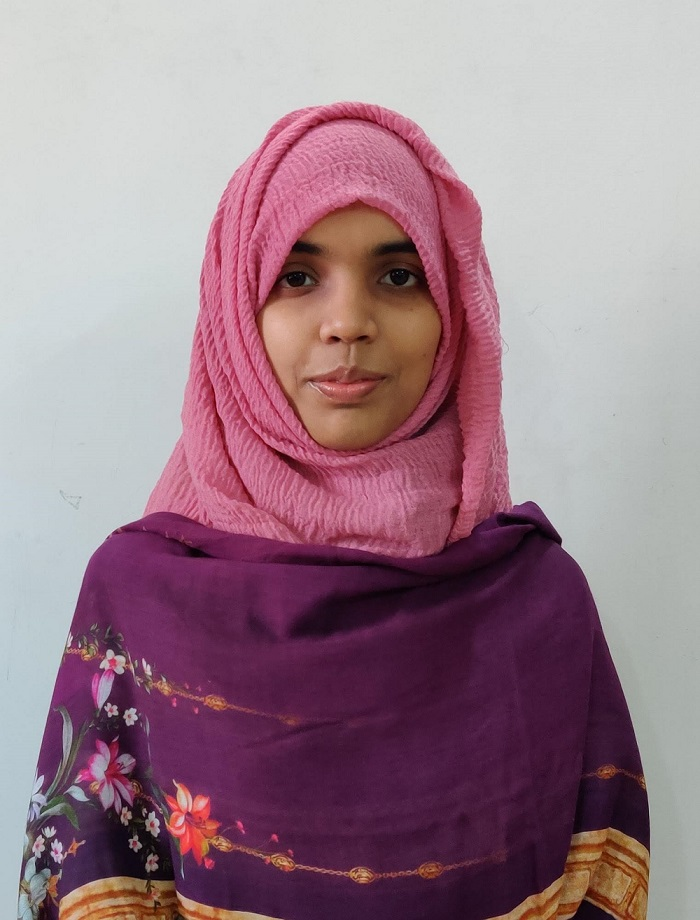
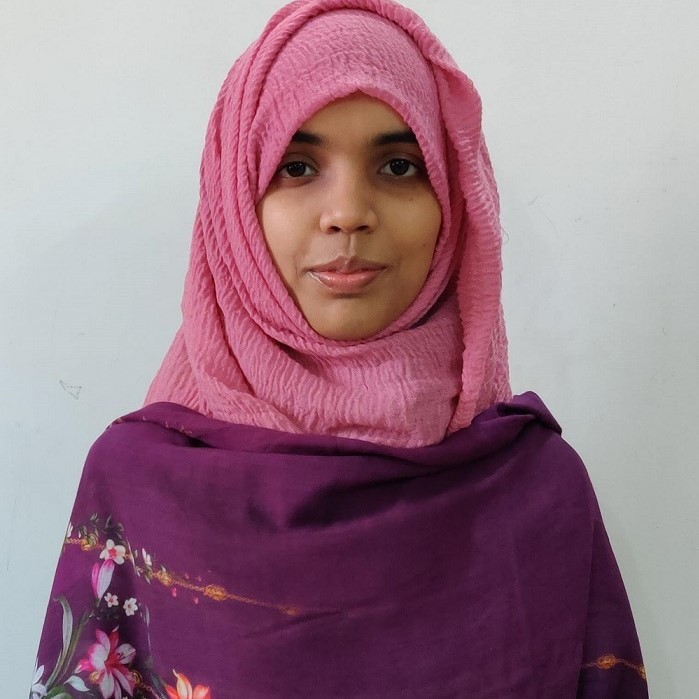
review changes adjusted

Changed region(s): [[0.0, 0.0, 0.9313, 1.0]]

diff --git a/_data/Tasmin153/Tasmin153.md b/_data/Tasmin153/Tasmin153.md
@@ -1,7 +1,7 @@
 ---
 name: Mahbuba Tasmin
 institution: North South University
-profile_pic: passport_Mahbuba Tasmin.png
-quote: #devgrad2020
+profile_pic: Mahbuba_Tasmin_Avatar.jpg
+quote: NSUgrad2020
 github_user: Tasmin153
 ---
